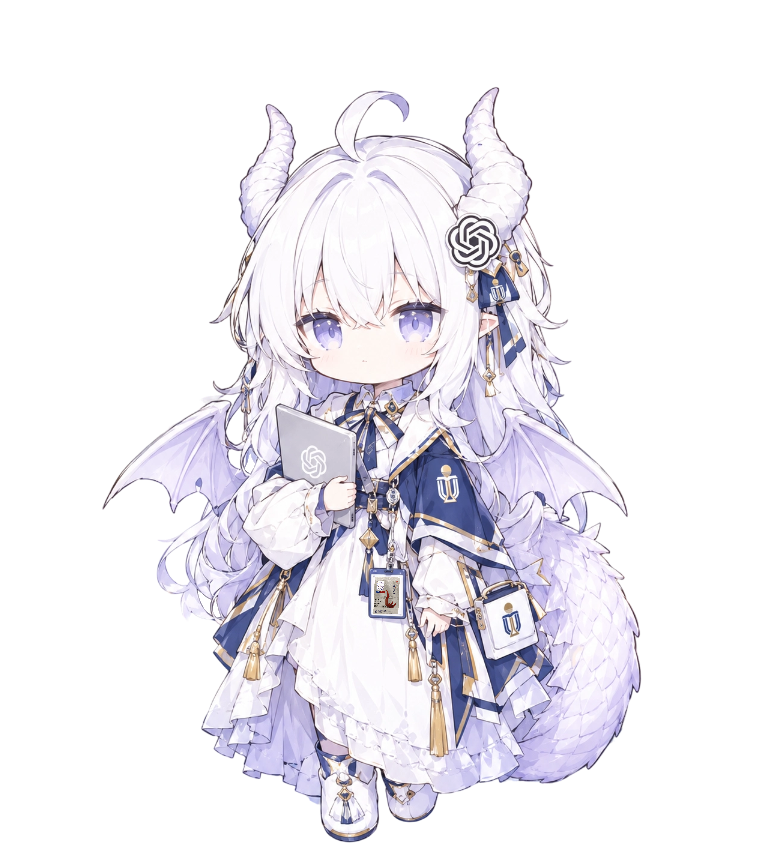
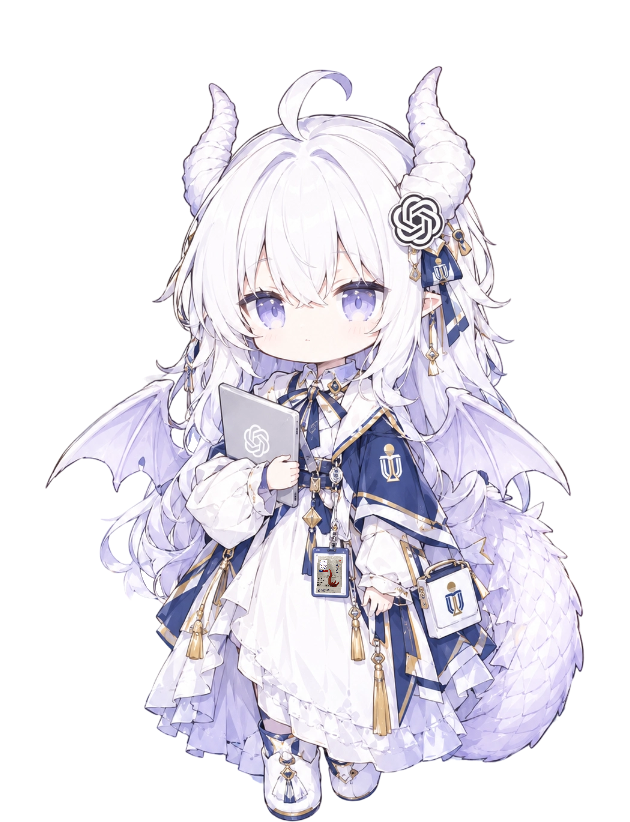
边缘适配

Changed region(s): [[0.0905, 0.0608, 0.9349, 1.0], [0.0603, 0.5779, 0.0905, 0.6083]]

diff --git a/src/balance_pet/pet.py b/src/balance_pet/pet.py
@@ -18,7 +18,7 @@ from PySide6.QtCore import (
     Qt,
     QUrl,
 )
-from PySide6.QtGui import QAction, QActionGroup, QIcon, QMouseEvent, QPainter, QPixmap
+from PySide6.QtGui import QAction, QActionGroup, QIcon, QImage, QMouseEvent, QPainter, QPixmap
 from PySide6.QtNetwork import QNetworkAccessManager, QNetworkReply, QNetworkRequest
 from PySide6.QtWidgets import QApplication, QMenu, QSystemTrayIcon, QWidget
 
@@ -29,6 +29,34 @@ BALANCE_URL = "https://hkust.azure-api.net/hkust-genai-auth/v1/balance"
 REQUEST_COOLDOWN_SECONDS = 5.0
 BASE_HEIGHT = 280
 DRAG_THRESHOLD = 5
+MAX_ANIMATION_SCALE_X = 1.13
+MAX_ANIMATION_SCALE_Y = 1.08
+# 判定“可见内容”的 alpha 阈值，用于忽略淡淡的抗锯齿/阴影像素。
+ALPHA_VISIBLE_THRESHOLD = 128
+
+
+def measure_transparent_margins(pixmap: QPixmap) -> tuple[int, int, int, int]:
+    """测量图片四周透明边缘（左、上、右、下），以源图像素计。"""
+    image = pixmap.toImage().convertToFormat(QImage.Format.Format_ARGB32)
+    width, height = image.width(), image.height()
+    stride = image.bytesPerLine()
+    data = bytes(image.constBits())[: stride * height]
+    left, top, right, bottom = width, height, -1, -1
+    for y in range(height):
+        base = y * stride
+        for x in range(width):
+            if data[base + 4 * x + 3] > ALPHA_VISIBLE_THRESHOLD:
+                if x < left:
+                    left = x
+                if x > right:
+                    right = x
+                if y < top:
+                    top = y
+                if y > bottom:
+                    bottom = y
+    if right < 0:
+        return 0, 0, 0, 0
+    return left, top, width - 1 - right, height - 1 - bottom
 
 
 class PetWindow(QWidget):
@@ -37,6 +65,8 @@ class PetWindow(QWidget):
         self._source = QPixmap(str(image_path))
         if self._source.isNull():
             raise FileNotFoundError(f"无法读取宠物图片：{image_path}")
+
+        self._alpha_margins = measure_transparent_margins(self._source)
 
         self._settings = QSettings("BalancePet", "BalanceDesktopPet")
         self._size_scale = float(self._settings.value("size_scale", 1.0))
@@ -102,18 +132,33 @@ class PetWindow(QWidget):
             self.move(bottom_right - QPoint(width - 1, height - 1))
         self.update()
 
+    def _transparent_margins(self) -> tuple[int, int, int, int]:
+        """按当前显示尺寸换算图片透明边缘（左、上、右、下），随窗口缩放变化。"""
+        left, top, right, bottom = self._alpha_margins
+        sx = self.width() / self._source.width()
+        sy = self.height() / self._source.height()
+        if self._flipped:
+            left, right = right, left
+        return round(left * sx), round(top * sy), round(right * sx), round(bottom * sy)
+
+    def _clamp_to_screen(self, position: QPoint, screen) -> QPoint:
+        area = screen.availableGeometry()
+        left, top, right, _bottom = self._transparent_margins()
+        # 允许窗口越出屏幕，使图片中的可见内容（不含透明边缘）刚好贴到屏幕边缘。
+        x = min(max(position.x(), area.left() - left), area.right() - self.width() + 1 + right)
+        y = min(max(position.y(), area.top() - top), area.bottom() - self.height() + 1)
+        return QPoint(x, y)
+
     def _restore_position(self) -> None:
         saved = self._settings.value("position")
         if isinstance(saved, QPoint):
             screen = QApplication.screenAt(saved + QPoint(self.width() // 2, self.height() // 2))
             if screen is not None:
-                area = screen.availableGeometry()
-                x = min(max(saved.x(), area.left()), area.right() - self.width() + 1)
-                y = min(max(saved.y(), area.top()), area.bottom() - self.height() + 1)
-                self.move(x, y)
+                self.move(self._clamp_to_screen(saved, screen))
                 return
-        area = QApplication.primaryScreen().availableGeometry()
-        self.move(area.right() - self.width() - 24, area.bottom() - self.height() - 24)
+        screen = QApplication.primaryScreen()
+        self.move(self._clamp_to_screen(QPoint(screen.availableGeometry().right() - self.width() - 24,
+                                                screen.availableGeometry().bottom() - self.height() - 24), screen))
 
     def get_scale_x(self) -> float:
         return self._scale_x
@@ -184,9 +229,7 @@ class PetWindow(QWidget):
     def _keep_on_screen(self) -> None:
         screen = QApplication.screenAt(self.frameGeometry().center()) or QApplication.primaryScreen()
         area = screen.availableGeometry()
-        x = min(max(self.x(), area.left()), area.right() - self.width() + 1)
-        y = min(max(self.y(), area.top()), area.bottom() - self.height() + 1)
-        self.move(x, y)
+        self.move(self._clamp_to_screen(self.pos(), screen))
         self._settings.setValue("position", self.pos())
         self._update_flip()
 
